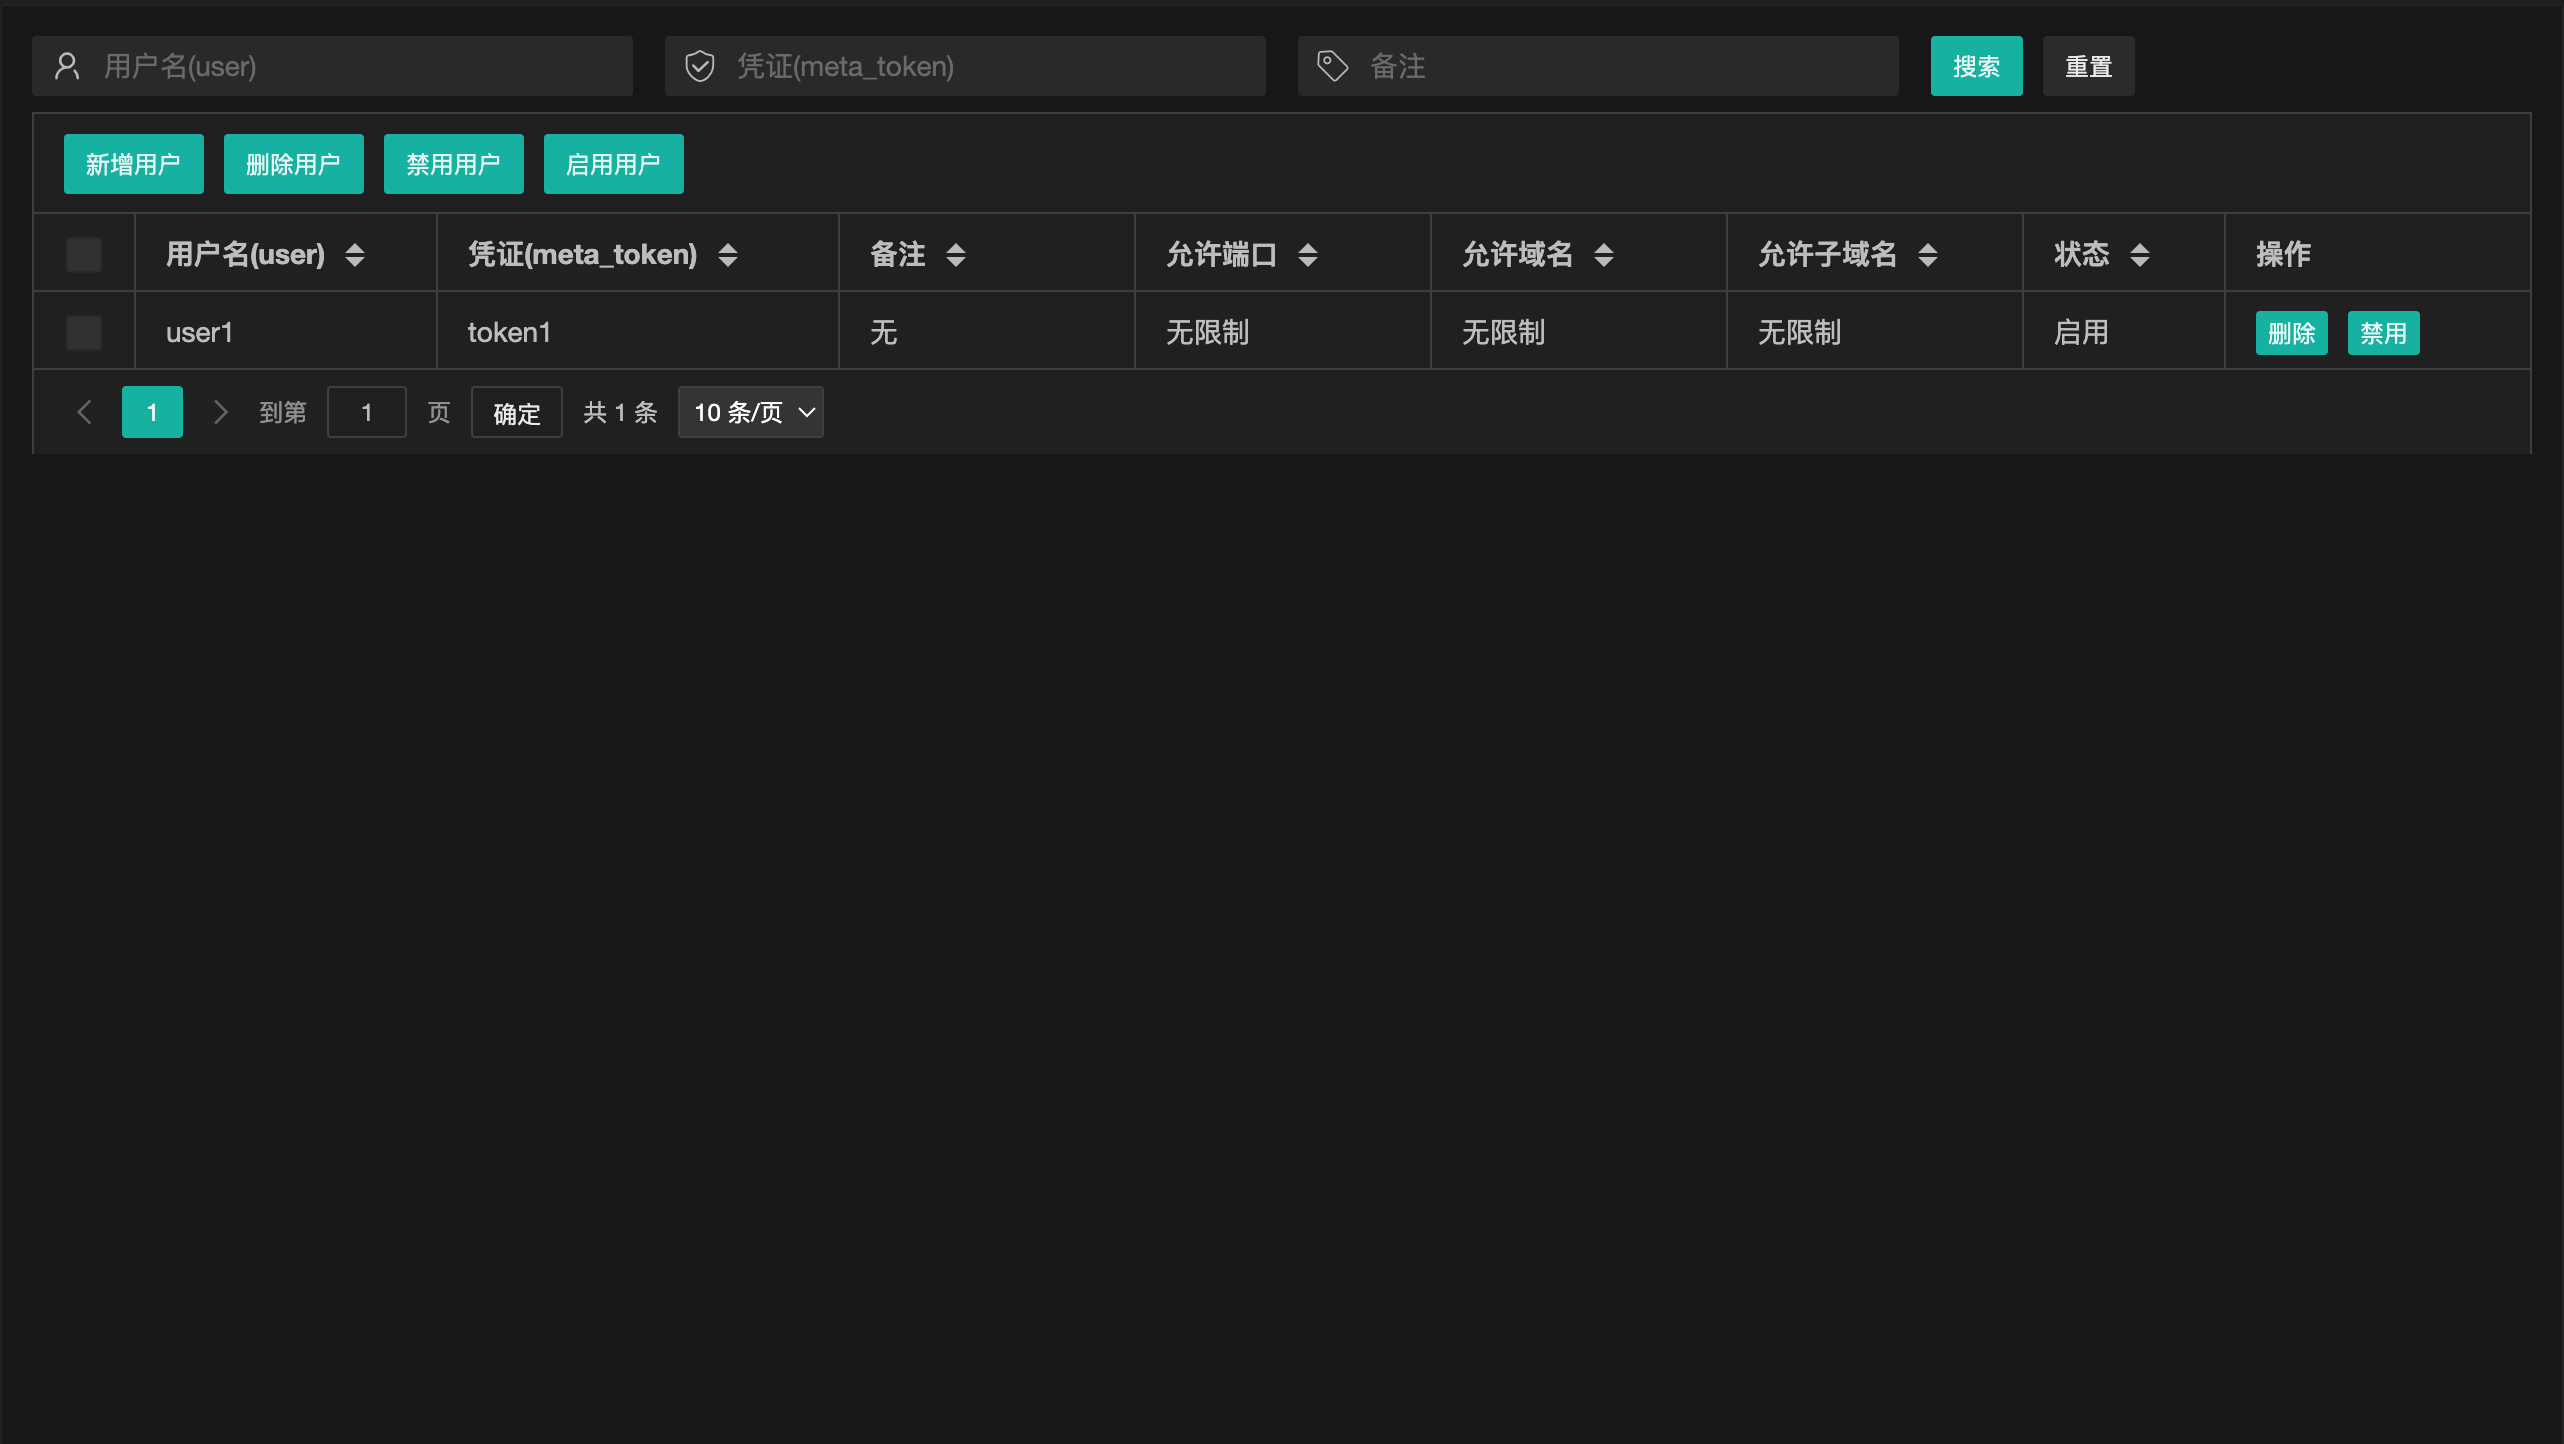
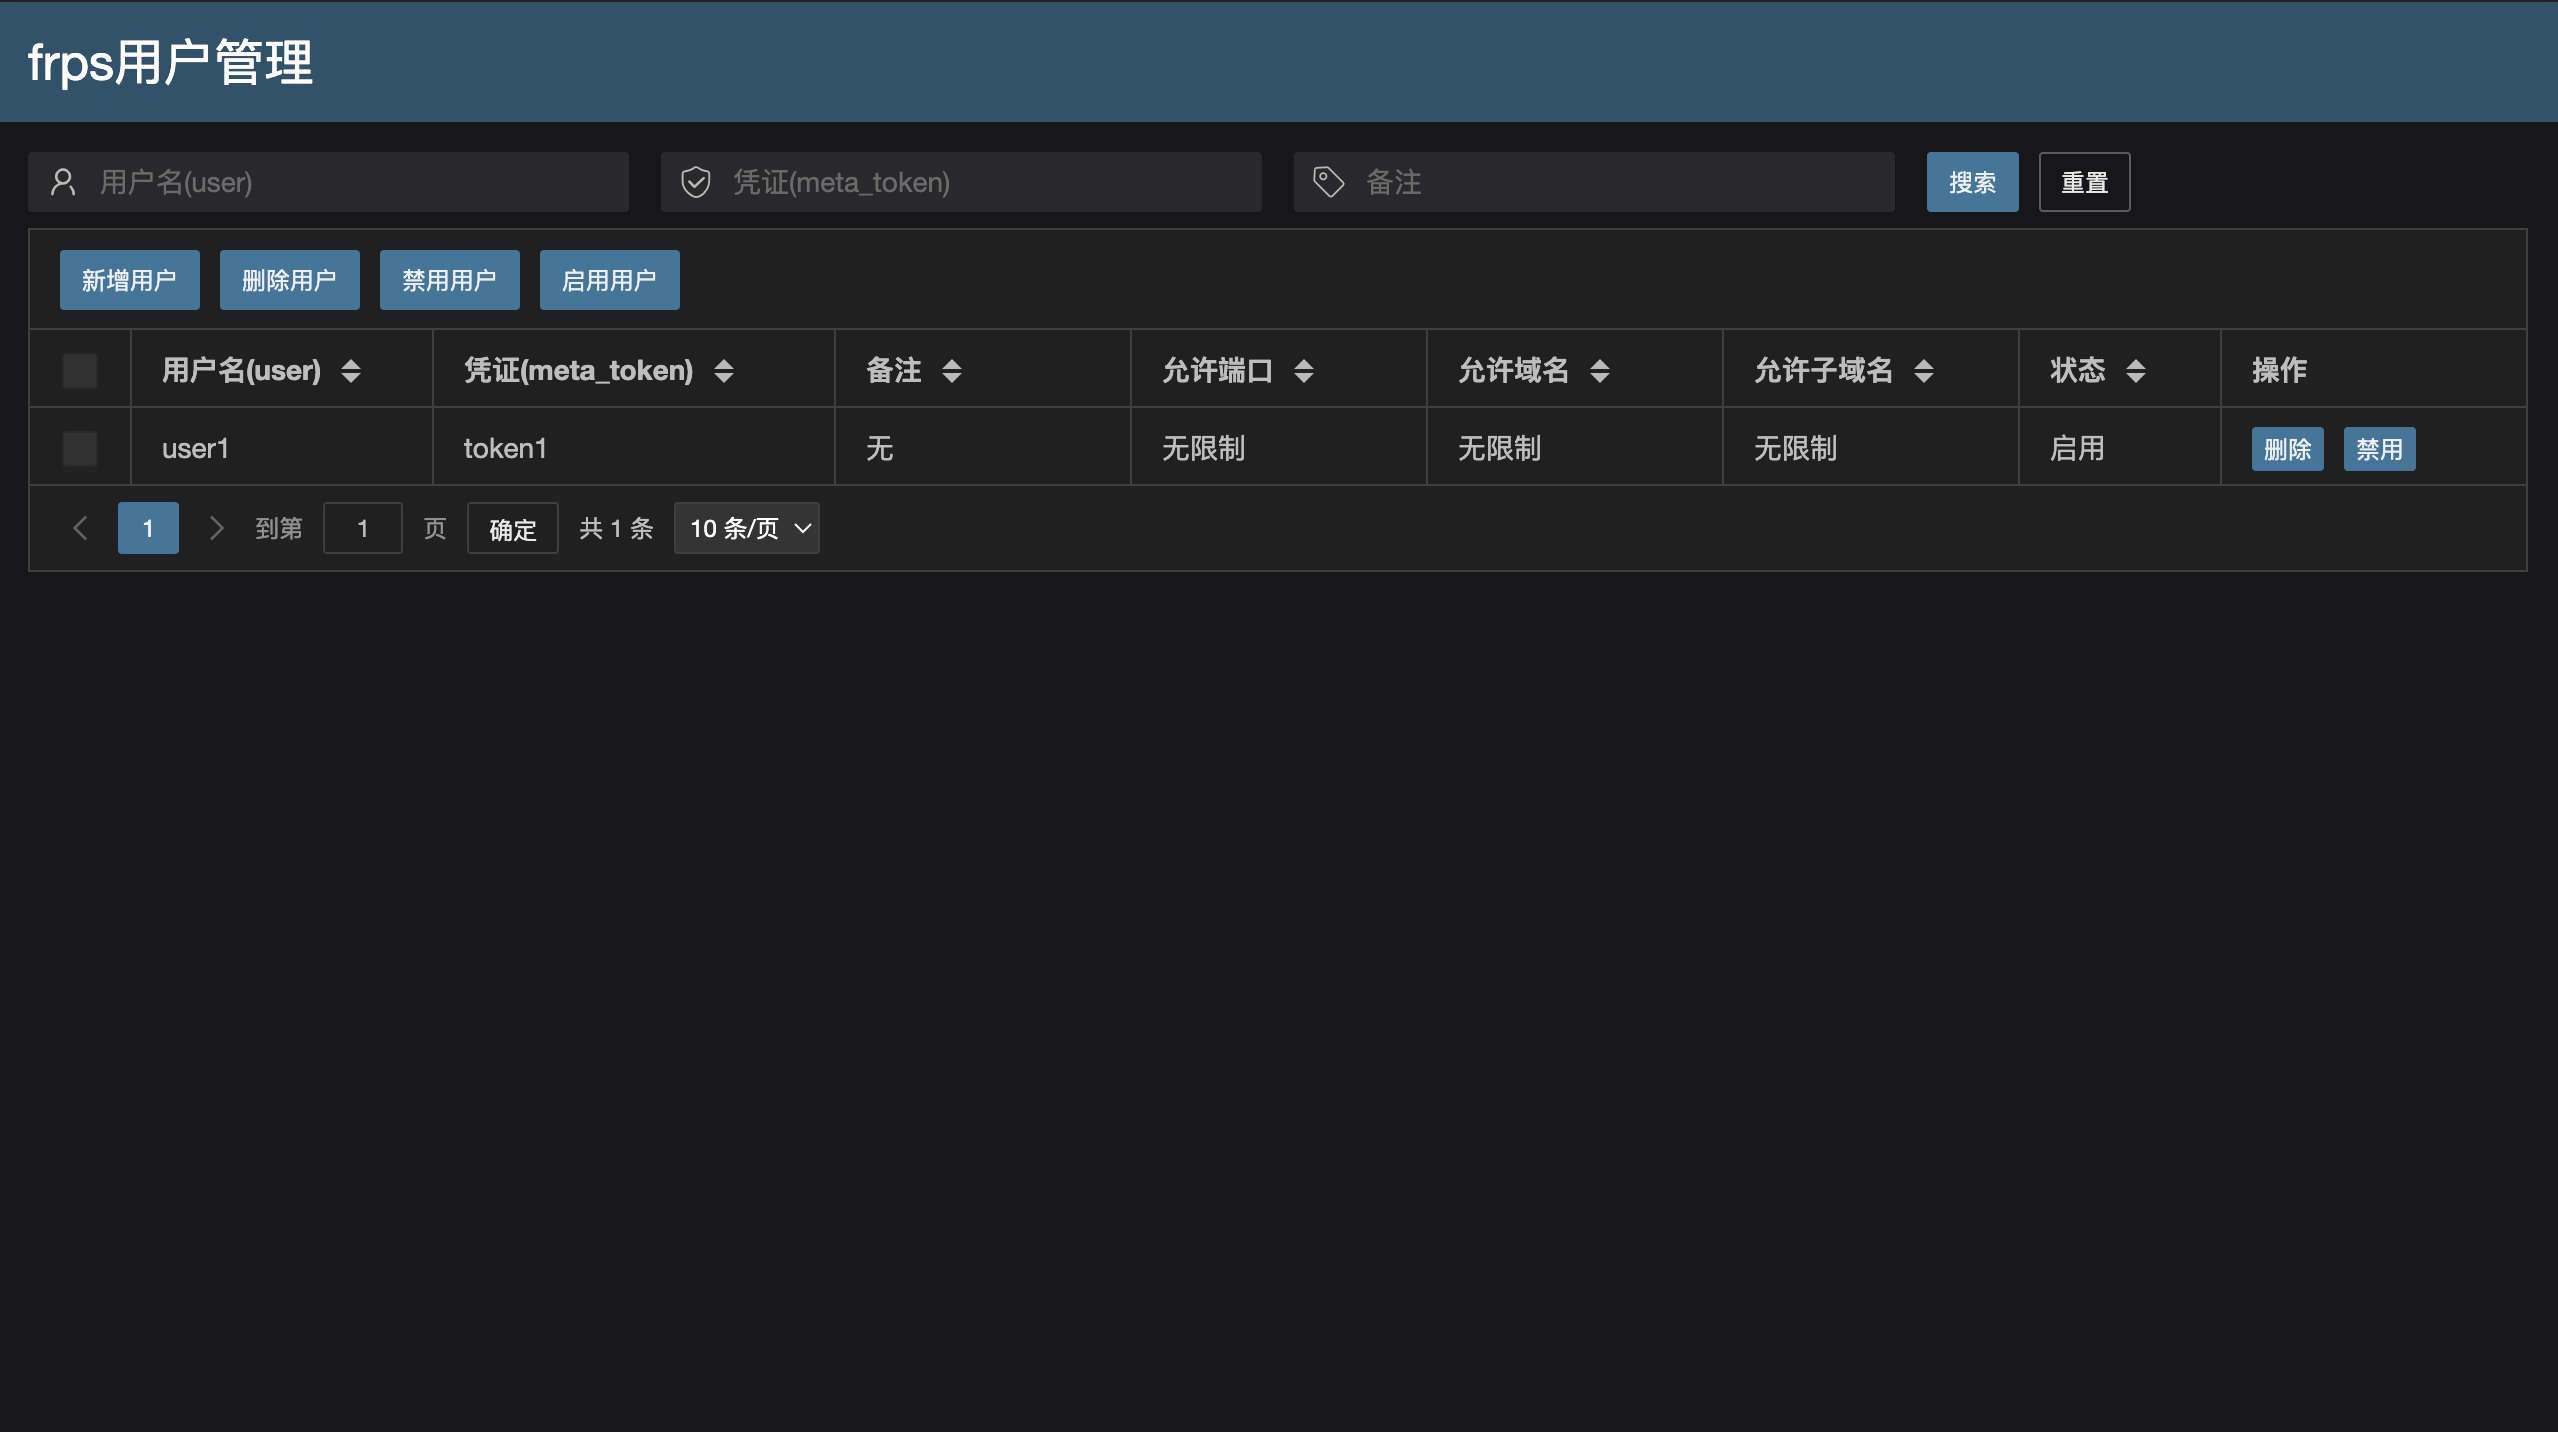
reset color; add title bar;

diff --git a/assets/templates/index.html b/assets/templates/index.html
@@ -18,42 +18,48 @@
     </style>
 </head>
 <body>
-<form class="layui-form layui-row layui-col-space16" id="searchForm" lay-filter="searchForm">
-    <div class="layui-col-md3">
-        <div class="layui-input-wrap">
-            <div class="layui-input-prefix">
-                <i class="layui-icon layui-icon-username"></i>
+<header>
+    <div class="title">${ .FrpsMultiuser }</div>
+</header>
+<section>
+    <form class="layui-form layui-row layui-col-space16" id="searchForm" lay-filter="searchForm">
+        <div class="layui-col-md3">
+            <div class="layui-input-wrap">
+                <div class="layui-input-prefix">
+                    <i class="layui-icon layui-icon-username"></i>
+                </div>
+                <input type="text" name="user" placeholder="${ .User }" class="layui-input" autocomplete="off"
+                       lay-affix="clear">
             </div>
-            <input type="text" name="user" placeholder="${ .User }" class="layui-input" autocomplete="off"
-                   lay-affix="clear">
         </div>
-    </div>
-    <div class="layui-col-md3">
-        <div class="layui-input-wrap">
-            <div class="layui-input-prefix">
-                <i class="layui-icon layui-icon-vercode"></i>
+        <div class="layui-col-md3">
+            <div class="layui-input-wrap">
+                <div class="layui-input-prefix">
+                    <i class="layui-icon layui-icon-vercode"></i>
+                </div>
+                <input type="text" name="token" placeholder="${ .Token }" class="layui-input" autocomplete="off"
+                       lay-affix="clear">
             </div>
-            <input type="text" name="token" placeholder="${ .Token }" class="layui-input" autocomplete="off"
-                   lay-affix="clear">
         </div>
-    </div>
-    <div class="layui-col-md3">
-        <div class="layui-input-wrap">
-            <div class="layui-input-prefix">
-                <i class="layui-icon layui-icon-note"></i>
+        <div class="layui-col-md3">
+            <div class="layui-input-wrap">
+                <div class="layui-input-prefix">
+                    <i class="layui-icon layui-icon-note"></i>
+                </div>
+                <input type="text" name="comment" placeholder="${ .Notes }" class="layui-input" autocomplete="off"
+                       lay-affix="clear">
             </div>
-            <input type="text" name="comment" placeholder="${ .Notes }" class="layui-input" autocomplete="off"
-                   lay-affix="clear">
         </div>
-    </div>
-    <div class="layui-col-md3">
-        <div class="layui-btn-container">
-            <button class="layui-btn layui-btn-sm" id="searchBtn">${ .Search }</button>
-            <button class="layui-btn layui-btn-sm layui-btn-primary" type="reset" id="resetBtn">${ .Reset }</button>
+        <div class="layui-col-md3">
+            <div class="layui-btn-container">
+                <button class="layui-btn layui-btn-sm" id="searchBtn">${ .Search }</button>
+                <button class="layui-btn layui-btn-sm layui-btn-primary" type="reset" id="resetBtn">${ .Reset }</button>
+            </div>
         </div>
-    </div>
-</form>
-<table id="tokenTable" lay-filter="tokenTable"></table>
+    </form>
+    <table id="tokenTable" lay-filter="tokenTable"></table>
+</section>
+
 <script type="text/html" id="toolbarTemplate">
     <div class="layui-btn-container">
         <button class="layui-btn layui-btn-sm" lay-event="add">${ .NewUser }</button>

diff --git a/assets/static/css/index.css b/assets/static/css/index.css
@@ -1,6 +1,21 @@
-body {
-    padding: 15px;
+html, body {
+    padding: 0;
     word-break: break-all;
+}
+
+header {
+    background-color: #58b7ff;
+    color: #fff;
+}
+
+header .title {
+    padding: 10px 15px;
+    line-height: 40px;
+    font-size: 25px;
+}
+
+section {
+    padding: 15px 15px 0 15px;
 }
 
 #searchForm input {
@@ -44,10 +59,132 @@ body {
     line-height: 20px;
 }
 
-.layui-btn-container{
+.layui-btn-container {
     height: 30px;
 }
 
-.layui-layer-btn > a[class^=layui-layer-btn]{
+.layui-layer-btn > a[class^=layui-layer-btn] {
     line-height: 28px;
+}
+
+.layui-table-page {
+    margin-bottom: 0;
+}
+
+/*以下重置用到的layui组件的颜色*/
+
+.layui-btn {
+    background-color: #409eff;
+}
+
+.layui-layer-btn .layui-layer-btn0 {
+    background-color: #409eff;
+}
+
+.layui-btn-primary {
+    background-color: transparent;
+}
+
+.layui-btn-primary:hover {
+    border-color: #79bbff;
+}
+
+.layui-input:focus,
+.layui-textarea:focus {
+    border-color: #79bbff !important;
+    box-shadow: none;
+}
+
+.layui-form-danger + .layui-form-select .layui-input,
+.layui-form-danger:focus {
+    border-color: #ff5722 !important;
+}
+
+.layui-laypage .layui-laypage-curr .layui-laypage-em {
+    background-color: #409eff;
+}
+
+.layui-laypage input:focus, .layui-laypage select:focus {
+    border-color: #79bbff !important;
+    box-shadow: none;
+}
+
+.layui-table-view .layui-table td[data-edit]:hover:after {
+    border-color: #79bbff;
+}
+
+.layui-form-checkbox[lay-skin=primary]:hover > i {
+    border-color: #79bbff;
+}
+
+.layui-form-checked[lay-skin=primary] > i {
+    background-color: #409eff;
+    border-color: #409eff !important;
+}
+
+.layui-table-checked {
+    background-color: #ecf5ff;
+}
+
+.layui-table-checked:hover {
+    background-color: #d9ecff;
+}
+
+@media (prefers-color-scheme: dark) {
+    header {
+        background-color: #395c74;
+    }
+
+    .layui-btn {
+        background-color: #4f80a1;
+    }
+
+    .layui-layer-btn .layui-layer-btn0 {
+        background-color: #4f80a1;
+    }
+
+    .layui-btn-primary {
+        background-color: transparent;
+        border-color: #666;
+    }
+
+    .layui-btn-primary:hover {
+        border-color: #666;
+    }
+
+    .layui-input:focus,
+    .layui-textarea:focus {
+        border-color: #666 !important;
+        box-shadow: none;
+    }
+
+    .layui-laypage .layui-laypage-curr .layui-laypage-em {
+        background-color: #4f80a1;
+    }
+
+    .layui-laypage input:focus, .layui-laypage select:focus {
+        border-color: #666 !important;
+        box-shadow: none;
+    }
+
+    .layui-table-view .layui-table td[data-edit]:hover:after {
+        border-color: #666;
+    }
+
+    .layui-form-checkbox[lay-skin=primary]:hover > i {
+        border-color: #666;
+    }
+
+    .layui-form-checked[lay-skin=primary] > i {
+        background-color: #4f80a1;
+        border-color: #4f80a1 !important;
+    }
+
+    .layui-table-checked {
+        background-color: rgba(255, 255, 255, .04);
+    }
+
+    .layui-table-checked:hover {
+        background-color: rgba(255, 255, 255, .08);
+    }
 }

diff --git a/pkg/server/controller/controller.go b/pkg/server/controller/controller.go
@@ -164,6 +164,7 @@ func (c *HandleController) MakeManagerFunc() func(context *gin.Context) {
 	return func(context *gin.Context) {
 		context.HTML(http.StatusOK, "index.html", gin.H{
 			"UserManage":                   ginI18n.MustGetMessage(context, "User Manage"),
+			"FrpsMultiuser":                ginI18n.MustGetMessage(context, "frps multiuser"),
 			"User":                         ginI18n.MustGetMessage(context, "User"),
 			"Token":                        ginI18n.MustGetMessage(context, "Token"),
 			"Notes":                        ginI18n.MustGetMessage(context, "Notes"),
